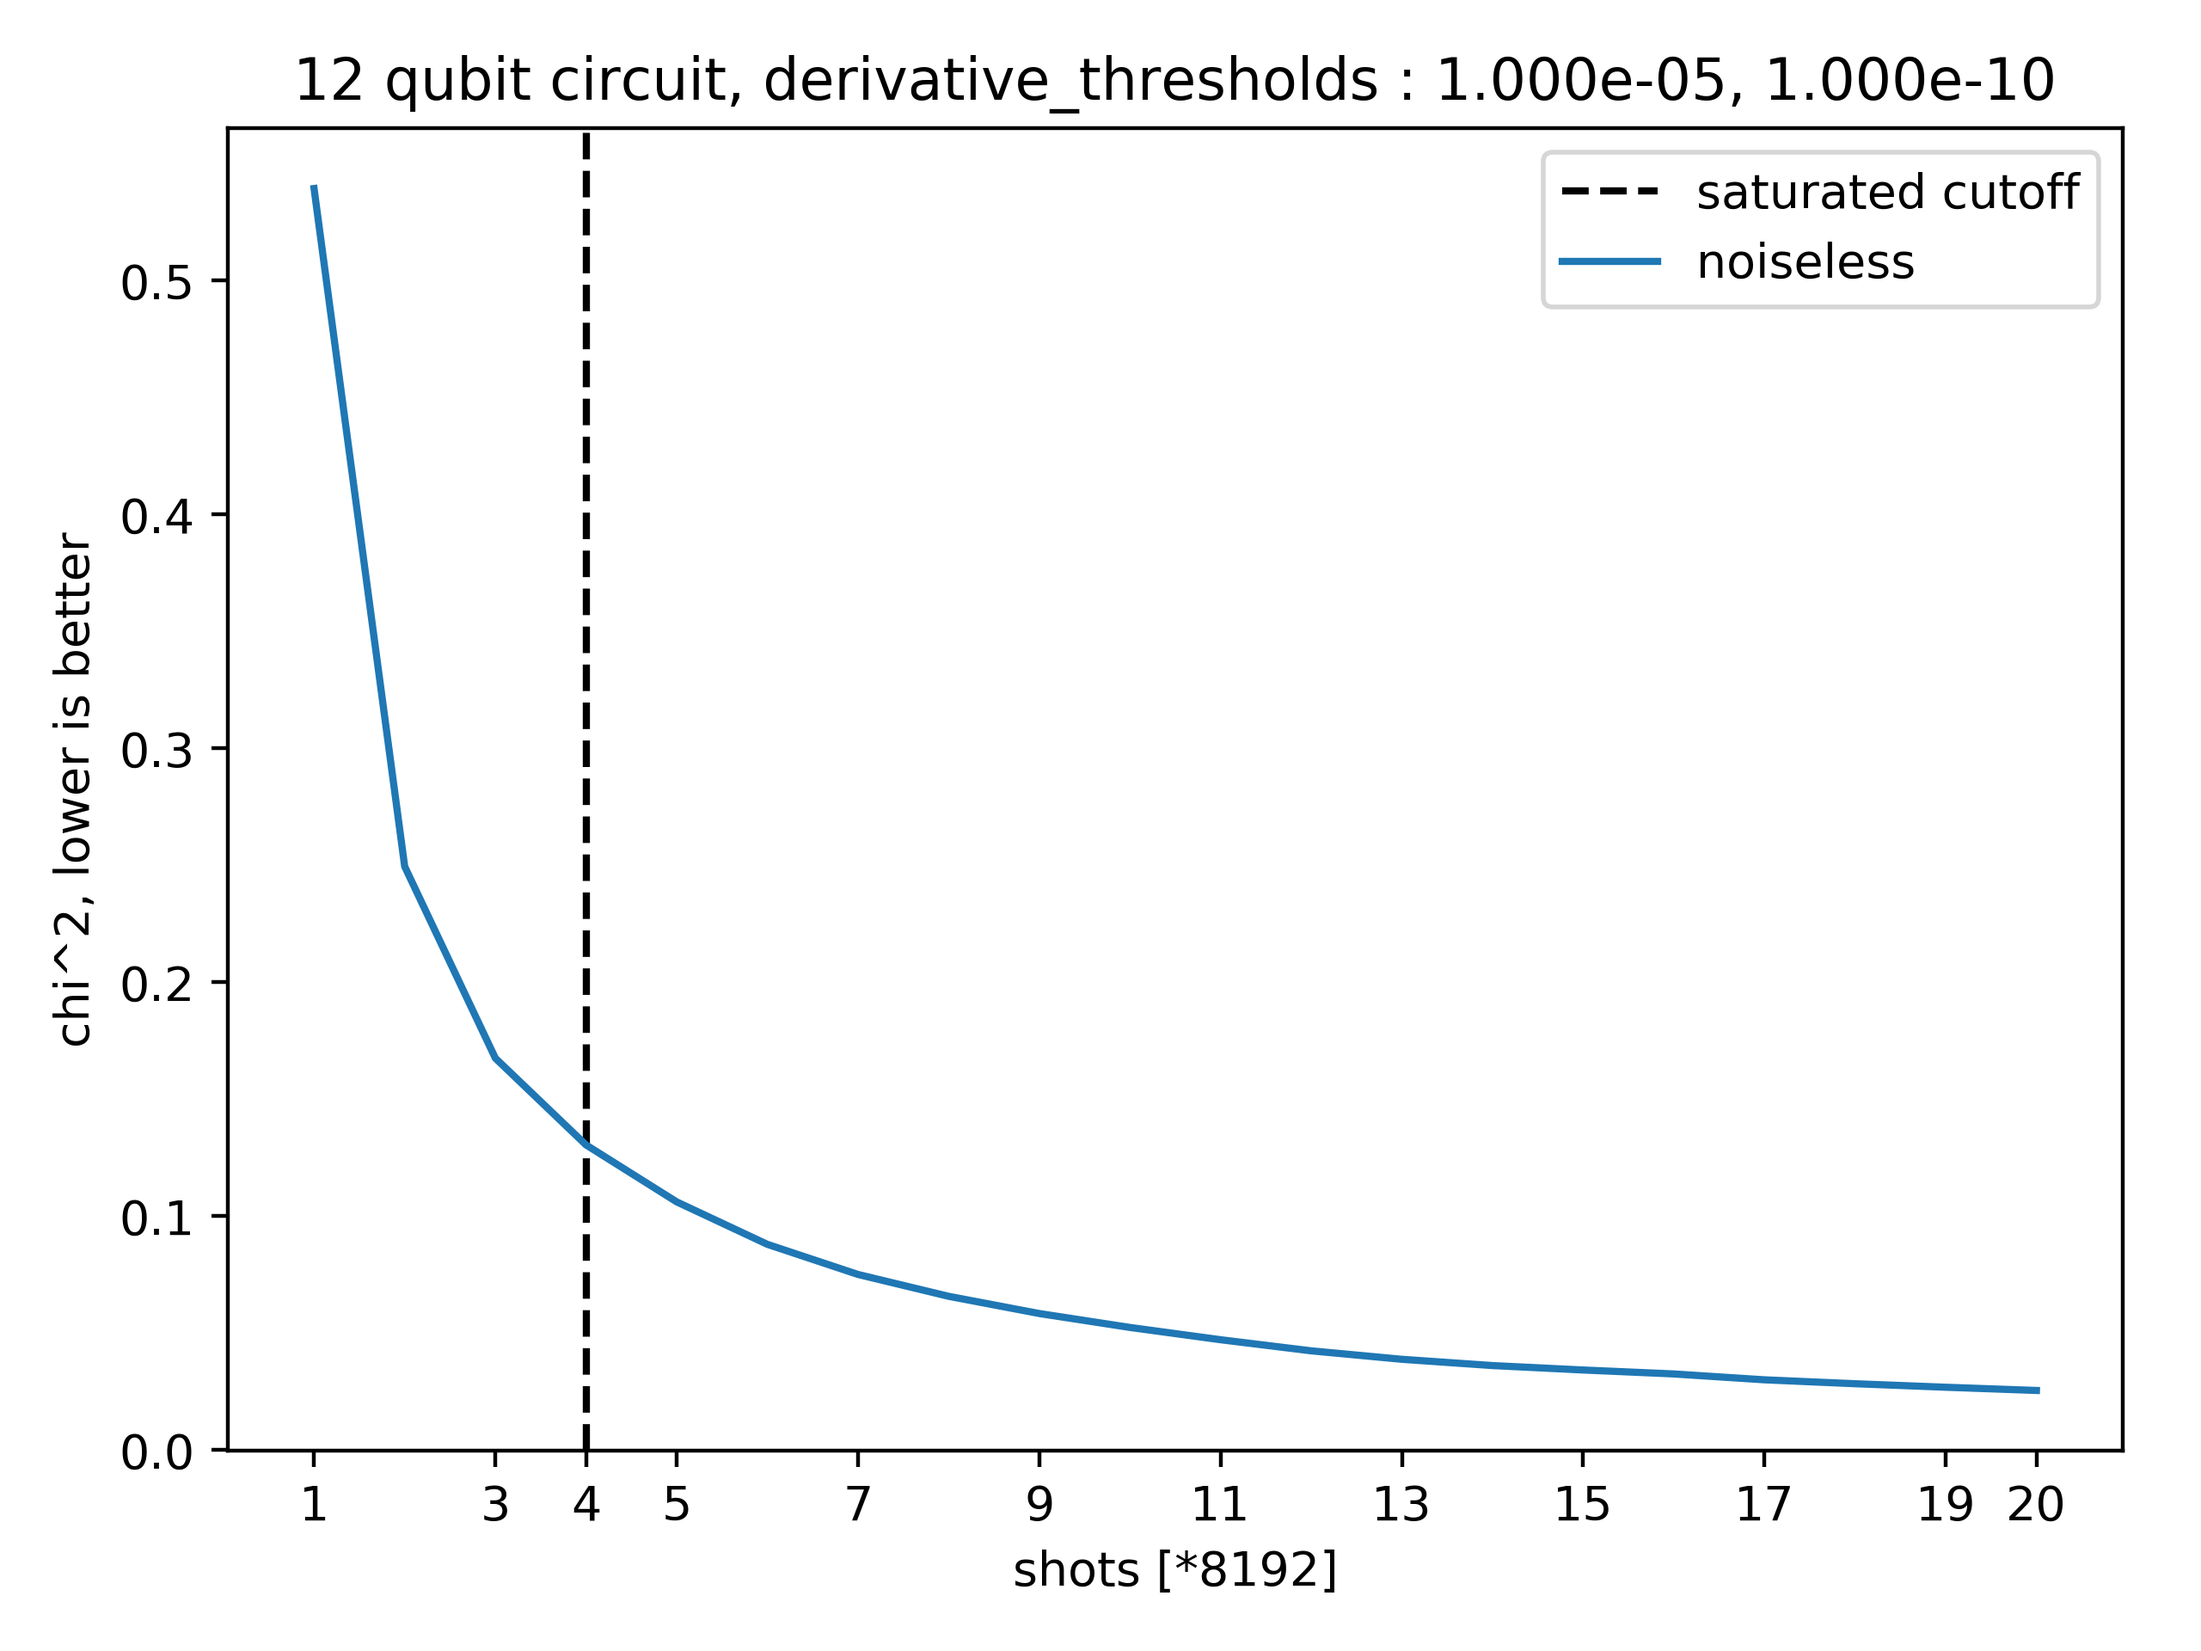
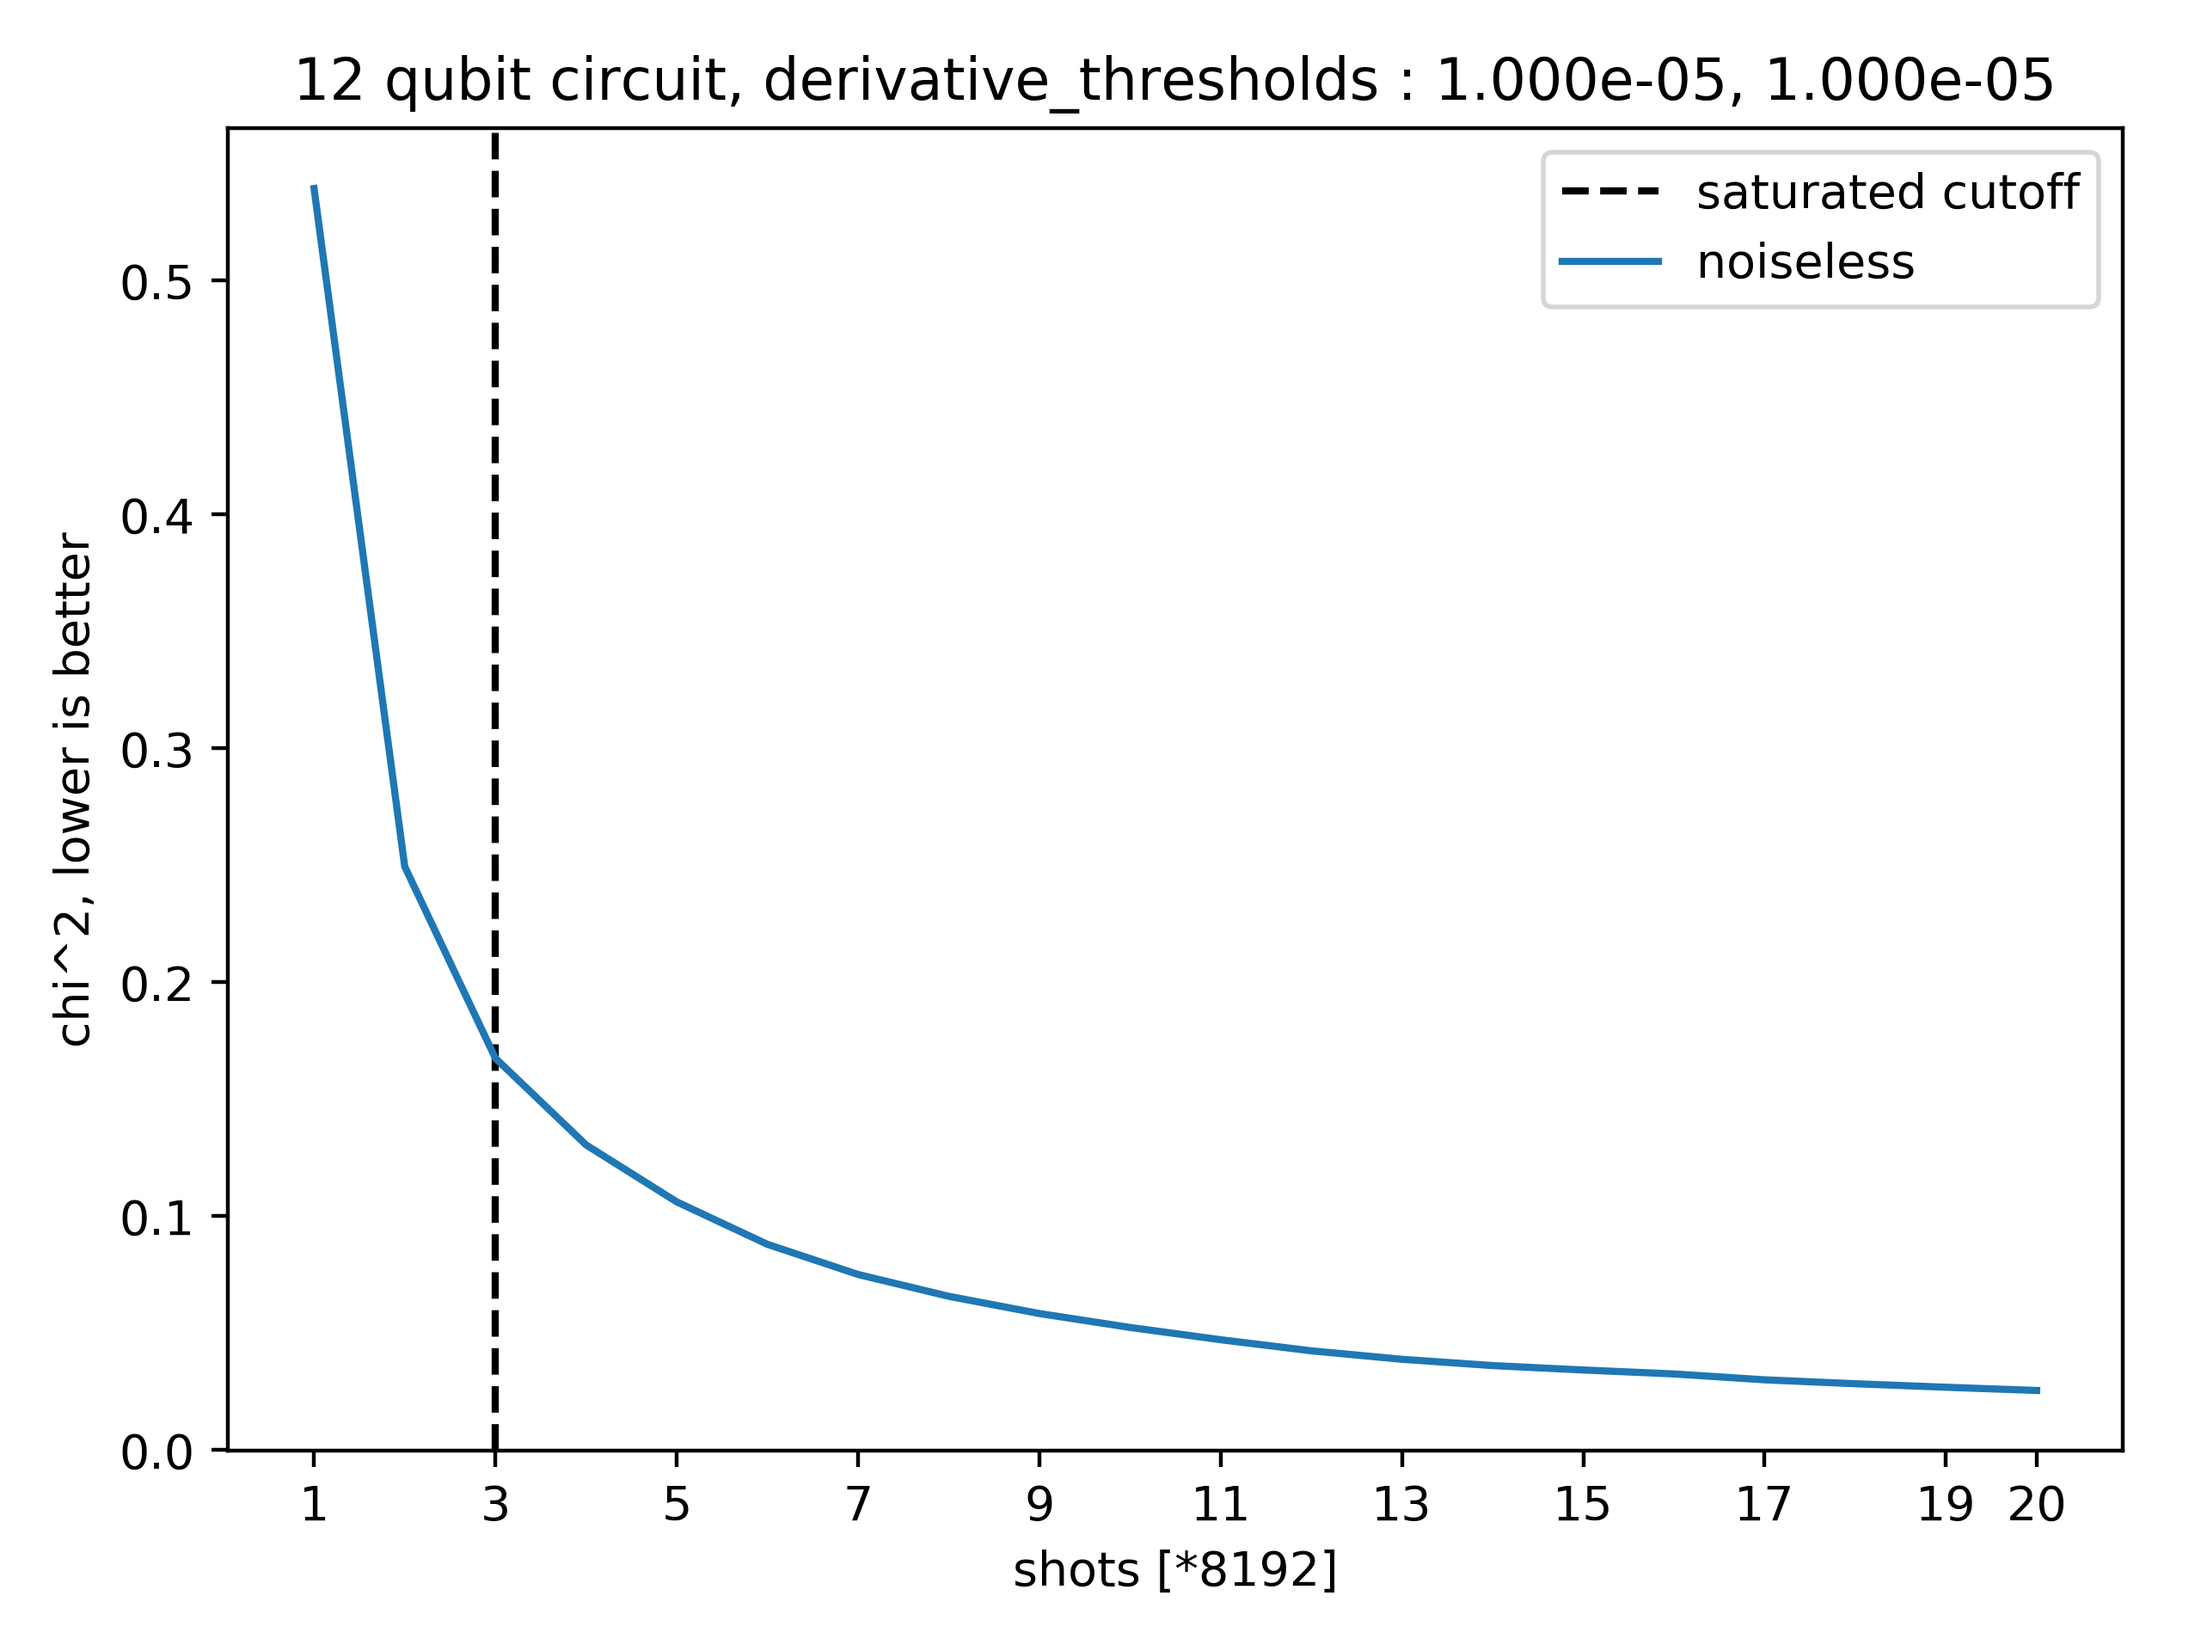
testing generator with new metric

Changed region(s): [[0.9062, 0.0312, 0.9375, 0.0625]]

diff --git a/utils/helper_fun.py b/utils/helper_fun.py
@@ -14,7 +14,8 @@ import copy
 from time import time
 import os
 from qcg.generators import gen_supremacy, gen_hwea, gen_BV, gen_qft, gen_sycamore
-from utils.conversions import list_to_dict
+from utils.conversions import list_to_dict, dict_to_array
+from scipy.stats import chisquare
 
 def generate_circ(full_circ_size,circuit_type):
     def gen_secret(num_qubit):
@@ -130,43 +131,42 @@ def get_circ_saturated_shots(circs,device_name):
     for circ_idx, circ in enumerate(circs):
         full_circ_size = len(circ.qubits)
         ground_truth = evaluate_circ(circ=circ,backend='statevector_simulator',evaluator_info=None,force_prob=True)
-        ground_truth_entropy = entropy(prob_dist=ground_truth)
-        shots_increment = 1024
-        
-        qasm_evaluator_info = get_evaluator_info(circ=circ,device_name=device_name,
-        fields=['device','basis_gates','coupling_map','properties','initial_layout'])
+        ground_truth = dict_to_array(distribution_dict=ground_truth,force_prob=True)
+
+        qasm_evaluator_info = get_evaluator_info(circ=circ,device_name=device_name,fields=['device'])
         qasm_evaluator_info['num_shots'] = shots_increment
         device_max_shots = qasm_evaluator_info['device'].configuration().max_shots
         device_max_experiments = int(qasm_evaluator_info['device'].configuration().max_experiments/3*2)
-        if ground_truth_entropy < 1e-10:
-            saturated_shot = max(1024,int(10*np.power(2,full_circ_size)))
-            saturated_shot = min(saturated_shot,int(device_max_experiments*device_max_shots))
-        else:
-            ce_l = []
-            counter = 1
-            accumulated_prob = [0 for i in range(np.power(2,len(circ.qubits)))]
-            while 1:
-                noiseless_prob_batch = evaluate_circ(circ=circ,backend='noiseless_qasm_simulator',evaluator_info=qasm_evaluator_info,force_prob=True)
-                accumulated_prob = [(x*(counter-1)+y)/counter for x,y in zip(accumulated_prob,noiseless_prob_batch)]
-                assert abs(sum(accumulated_prob)-1)<1e-5
-                accumulated_ce = cross_entropy(target=ground_truth,obs=accumulated_prob)
-                ce_l.append(accumulated_ce)
-                if len(ce_l)>=3:
-                    accumulated_shots = int((len(ce_l)-1)*shots_increment)
-                    first_derivative = (ce_l[-1]+ce_l[-3])/(2*shots_increment)
-                    second_derivative = (ce_l[-1]+ce_l[-3]-2*ce_l[-2])/(2*np.power(shots_increment,2))
-                    if (abs(first_derivative)<1e-5 and abs(second_derivative) < 1e-5) or accumulated_shots/device_max_experiments/device_max_shots>1:
-                        saturated_shot = accumulated_shots
-                        break
-                counter += 1
+        shots_increment = device_max_shots
+
+        chi2_l = []
+        counter = 1
+        accumulated_prob = np.zeros(2**full_circ_size,dtype=float)
+        while 1:
+            noiseless_prob_batch = evaluate_circ(circ=circ,backend='noiseless_qasm_simulator',evaluator_info=qasm_evaluator_info,force_prob=True)
+            noiseless_prob_batch = dict_to_array(distribution_dict=noiseless_prob_batch,force_prob=True)
+            accumulated_prob = ((counter-1)*accumulated_prob+noiseless_prob_batch)/counter
+            assert abs(sum(accumulated_prob)-1)<1e-10
+            accumulated_chi2 = chisquare(f_obs=accumulated_prob,f_exp=ground_truth)
+            chi2_l.append(accumulated_chi2)
+            if len(chi2_l)>=3:
+                accumulated_shots = int((len(chi2_l)-1)*shots_increment)
+                first_derivative = (chi2_l[-1]+chi2_l[-3])/(2*shots_increment)
+                second_derivative = (chi2_l[-1]+chi2_l[-3]-2*chi2_l[-2])/(2*np.power(shots_increment,2))
+                if (abs(first_derivative)<1e-5 and abs(second_derivative) < 1e-5) or accumulated_shots/device_max_experiments/device_max_shots>1:
+                    saturated_shot = accumulated_shots
+                    break
+            counter += 1
         ground_truth = evaluate_circ(circ=circ,backend='statevector_simulator',evaluator_info=None,force_prob=True)
+        ground_truth = dict_to_array(distribution_dict=ground_truth,force_prob=True)
         qasm_evaluator_info['num_shots'] = saturated_shot
         saturated_prob = evaluate_circ(circ=circ,backend='noiseless_qasm_simulator',evaluator_info=qasm_evaluator_info,force_prob=True)
-        saturated_ce = cross_entropy(target=ground_truth,obs=saturated_prob)
+        saturated_prob = dict_to_array(distribution_dict=saturated_prob,force_prob=True)
         saturated_shots.append(saturated_shot)
         ground_truths.append(ground_truth)
         saturated_probs.append(saturated_prob)
-        print('%d qubit circuit saturated shots = %d, \u0394H = %.3e'%(full_circ_size,saturated_shot,saturated_ce))
+        saturated_chi2 = chisquare(f_obs=saturated_prob,f_exp=ground_truth)
+        print('%d qubit circuit saturated shots = %d, \u03C7^2 = %.3e'%(full_circ_size,saturated_shot,saturated_chi2))
         
     return saturated_shots, ground_truths, saturated_probs
 

diff --git a/mit_test.py b/mit_test.py
@@ -39,7 +39,7 @@ device_name = 'ibmq_boeblingen'
 evaluator_info = get_evaluator_info(circ=None,device_name='ibmq_boeblingen',fields=['basis_gates','properties'])
 device_qubits = len(evaluator_info['properties'].qubits)
 
-full_circ_size = 7
+full_circ_size = 3
 qr = QuantumRegister(full_circ_size)
 ghz = generate_circ(full_circ_size=full_circ_size,circuit_type='supremacy')
 ground_truth = evaluate_circ(circ=ghz,backend='statevector_simulator',evaluator_info=None,force_prob=True)
@@ -95,12 +95,9 @@ tensored_mitigation.run(real_device=False)
 scheduler = Scheduler(circ_dict=circ_dict,device_name=device_name)
 scheduler.run(real_device=False)
 
-scheduler.retrieve(force_prob=False)
+scheduler.retrieve(force_prob=True)
 tensored_mitigation.retrieve()
-np.set_printoptions(formatter={'all':lambda x: '%.2f'%x})
-for qiskit_cal_mat, my_cal_mat in zip(meas_fitter.cal_matrices, tensored_mitigation.circ_dict['test']['calibration_matrices']):
-    print(qiskit_cal_mat-my_cal_mat)
-tensored_mitigation.apply(unmitigated=scheduler.circ_dict,force_prob=False)
+tensored_mitigation.apply(unmitigated=scheduler.circ_dict)
 mitigated_circ_dict = tensored_mitigation.circ_dict
 print(mitigated_circ_dict['test'].keys())
 my_raw = mitigated_circ_dict['test']['hw']
@@ -109,13 +106,13 @@ my_raw_dict = list_to_dict(l=list(my_raw))
 my_mitigated_dict = list_to_dict(l=list(my_mitigated))
 
 truth_ce, qiskit_raw_ce, qiskit_mit_ce = compute_metrics(ground_truth=ground_truth,raw_counts=raw_counts,mitigated_counts=mitigated_counts,metric='chi2')
-print('Qiskit chi^2: {:.3e}-->{:.3e}'.format(qiskit_raw_ce,qiskit_mit_ce))
+print('Qiskit \u03C7^2: {:.3e}-->{:.3e}'.format(qiskit_raw_ce,qiskit_mit_ce))
 
 fig = plot_histogram([raw_counts, mitigated_counts, ground_truth], legend=['raw = %.3e'%qiskit_raw_ce,'mitigated = %.3e'%qiskit_mit_ce,'truth = %.3e'%truth_ce],figsize=(35,10),title='qiskit mitigation')
 fig.savefig('qiskit_mitigation.png')
 
 truth_ce, my_raw_ce, my_mit_ce = compute_metrics(ground_truth=ground_truth,raw_counts=my_raw_dict,mitigated_counts=my_mitigated_dict,metric='chi2')
-print('My chi^2: {:.3e}-->{:.3e}'.format(my_raw_ce,my_mit_ce))
+print('My \u03C7^2: {:.3e}-->{:.3e}'.format(my_raw_ce,my_mit_ce))
 
 fig = plot_histogram([my_raw_dict, my_mitigated_dict,ground_truth], legend=['my_raw = %.3e'%my_raw_ce,'my_mitigated = %.3e'%my_mit_ce,'truth = %.3e'%truth_ce],figsize=(35,10),title='my mitigation')
 fig.savefig('my_mitigation.png')

diff --git a/utils/mitigation.py b/utils/mitigation.py
@@ -130,7 +130,7 @@ class TensoredMitigation:
                     out=np.zeros_like(self.circ_dict[key]['calibration_matrices'][mat_index]),
                     where=sums_of_columns != 0)
 
-    def apply(self,unmitigated,force_prob):
+    def apply(self,unmitigated):
         mitigated = copy.deepcopy(unmitigated)
         for key in unmitigated:
             if key in self.circ_dict:
@@ -179,12 +179,8 @@ class TensoredMitigation:
                 bnds = tuple((0, nshots) for x in x0)
                 res = minimize(fun, x0, method='SLSQP',constraints=cons, bounds=bnds, tol=1e-6)
                 mitigated_cnts = res.x
-                if force_prob:
-                    mitigated_prob = mitigated_cnts / sum(mitigated_cnts)
-                    assert abs(sum(mitigated_prob)-1)<1e-10
-                    mitigated[key]['mitigated_hw'] = copy.deepcopy(mitigated_prob)
-                else:
-                    mitigated[key]['mitigated_hw'] = copy.deepcopy(mitigated_cnts)
+                print('mitigated_prob:',mitigated_cnts)
+                mitigated[key]['mitigated_hw'] = copy.deepcopy(mitigated_cnts)
             else:
                 mitigated[key]['mitigated_hw'] = copy.deepcopy(unmitigated[key]['hw'])
         self.circ_dict = copy.deepcopy(mitigated)

diff --git a/hardware/generator.py b/hardware/generator.py
@@ -90,7 +90,7 @@ if __name__ == '__main__':
     tensored_mitigation = TensoredMitigation(circ_dict=circ_dict,device_name=args.device_name)
     tensored_mitigation.run(real_device=False)
 
-    scheduler.retrieve()
+    scheduler.retrieve(force_prob=True)
     tensored_mitigation.retrieve()
     tensored_mitigation.apply(unmitigated=scheduler.circ_dict)
     circ_dict = tensored_mitigation.circ_dict
